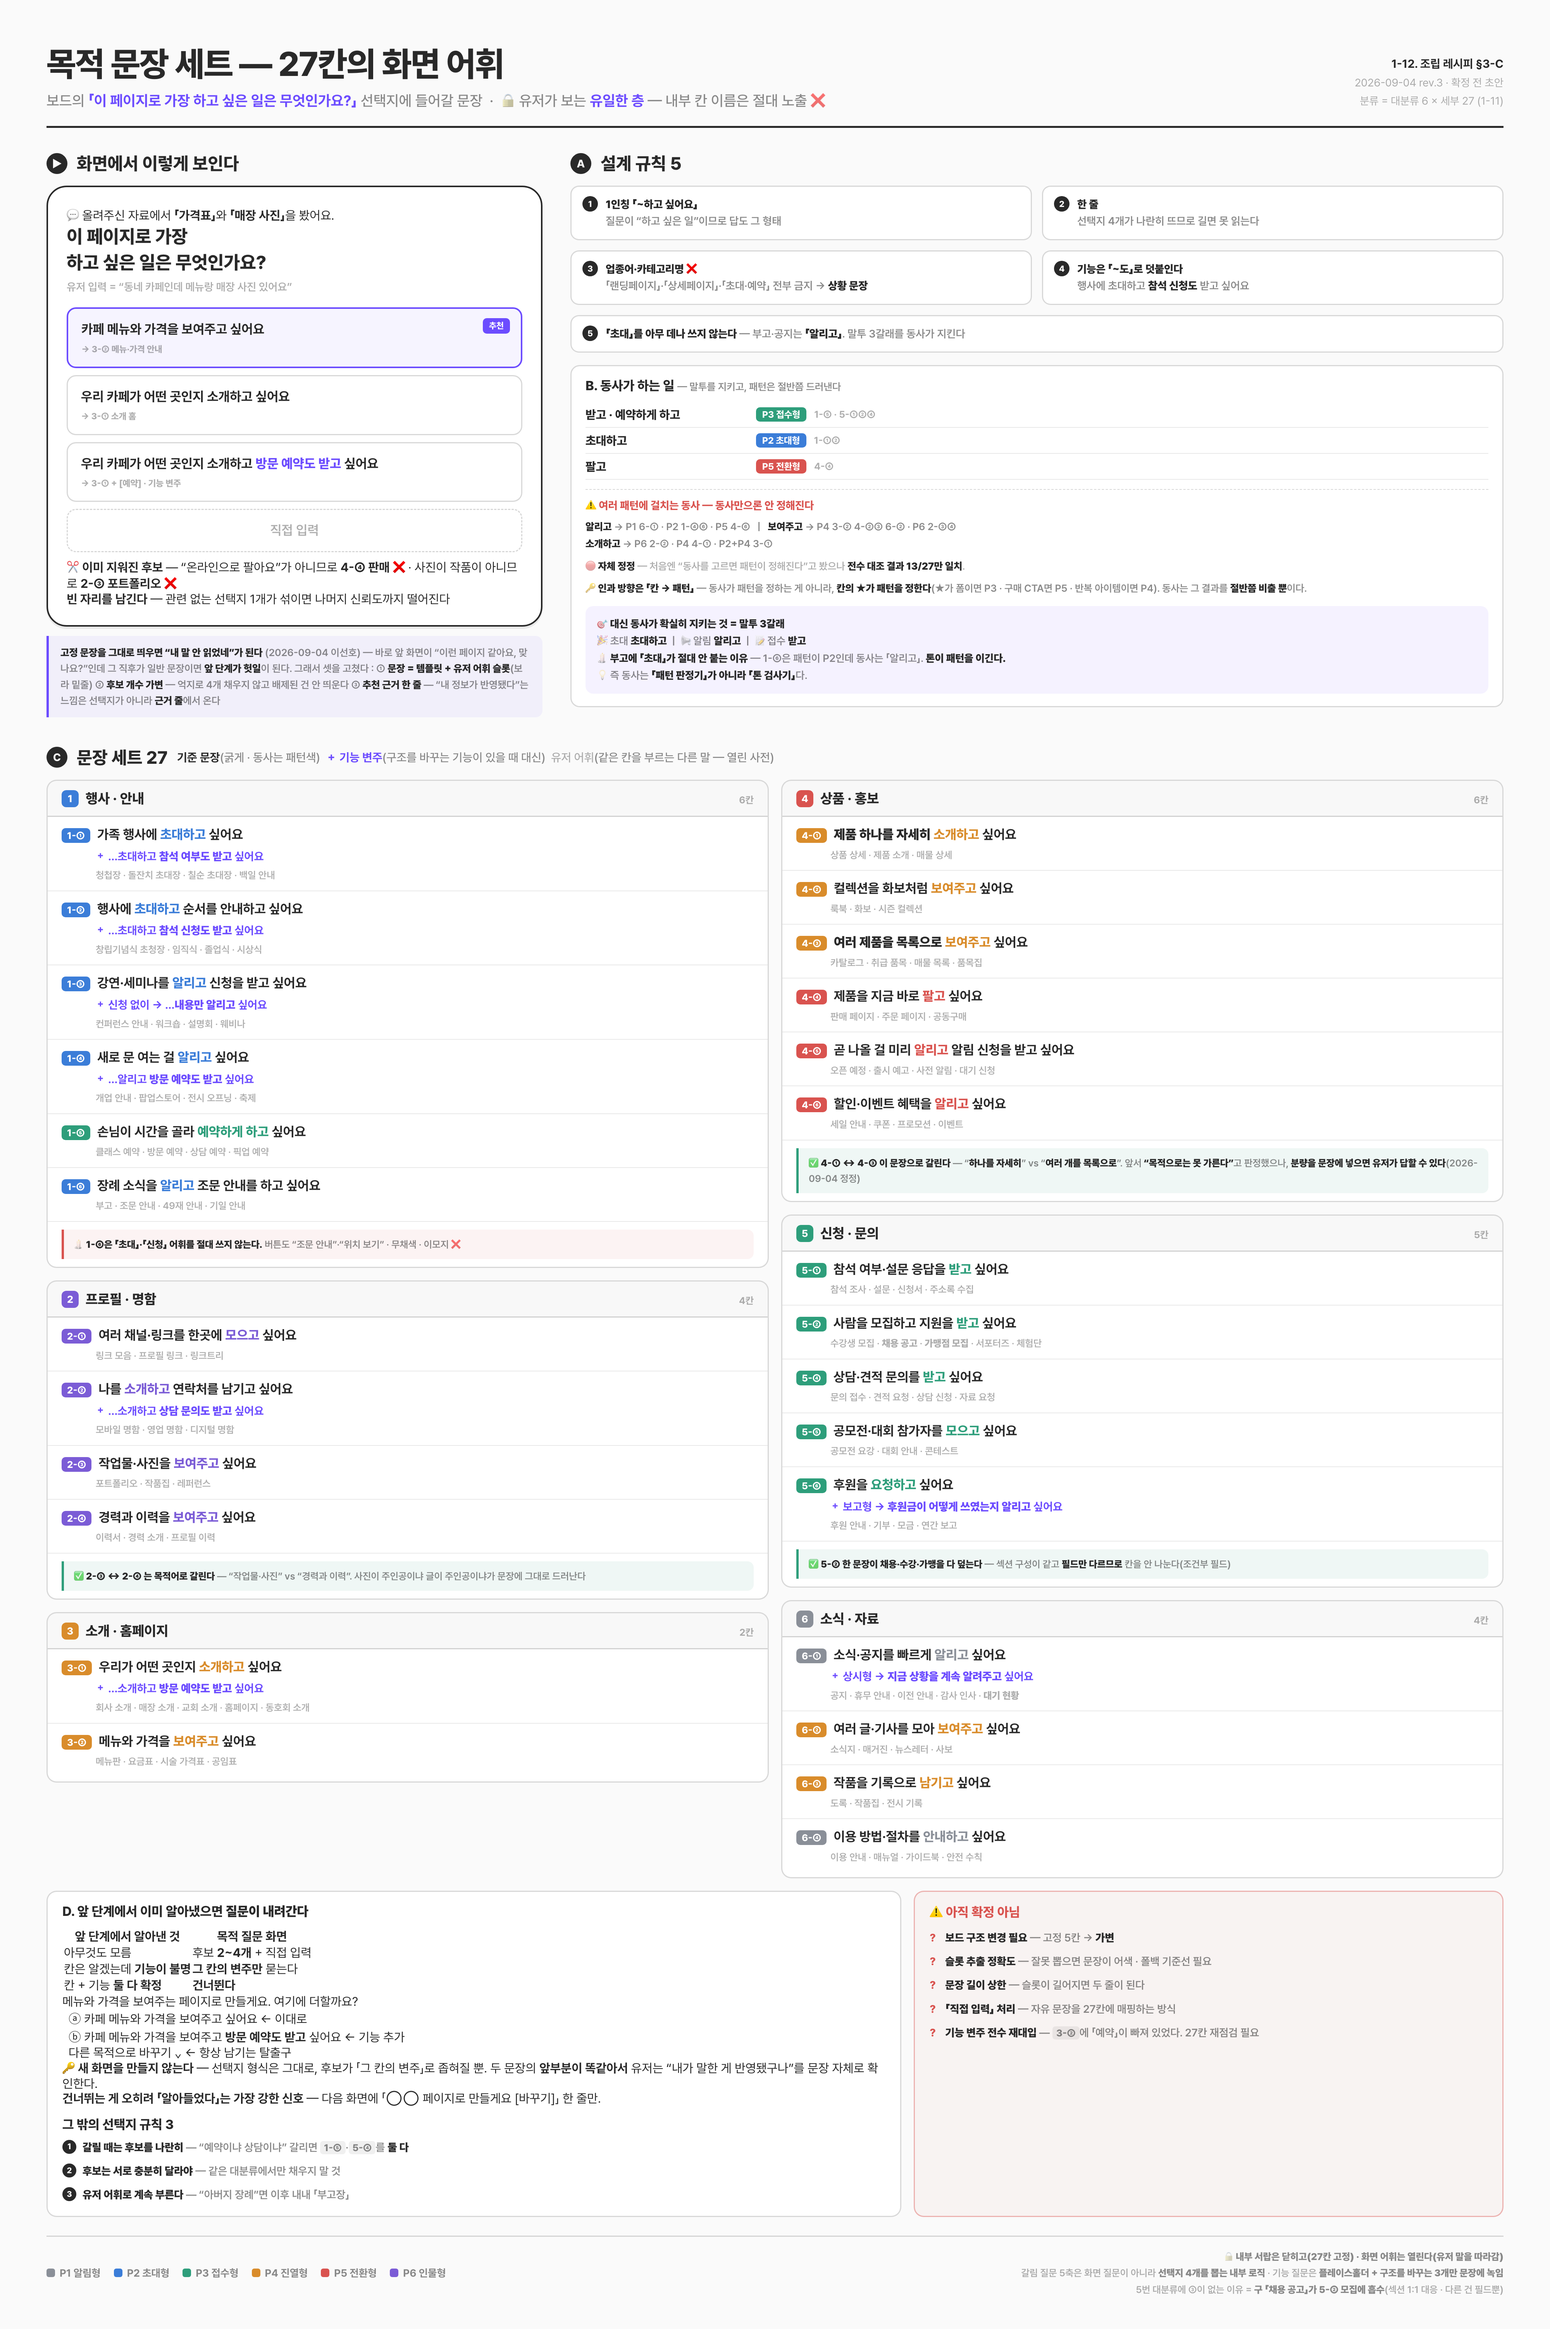
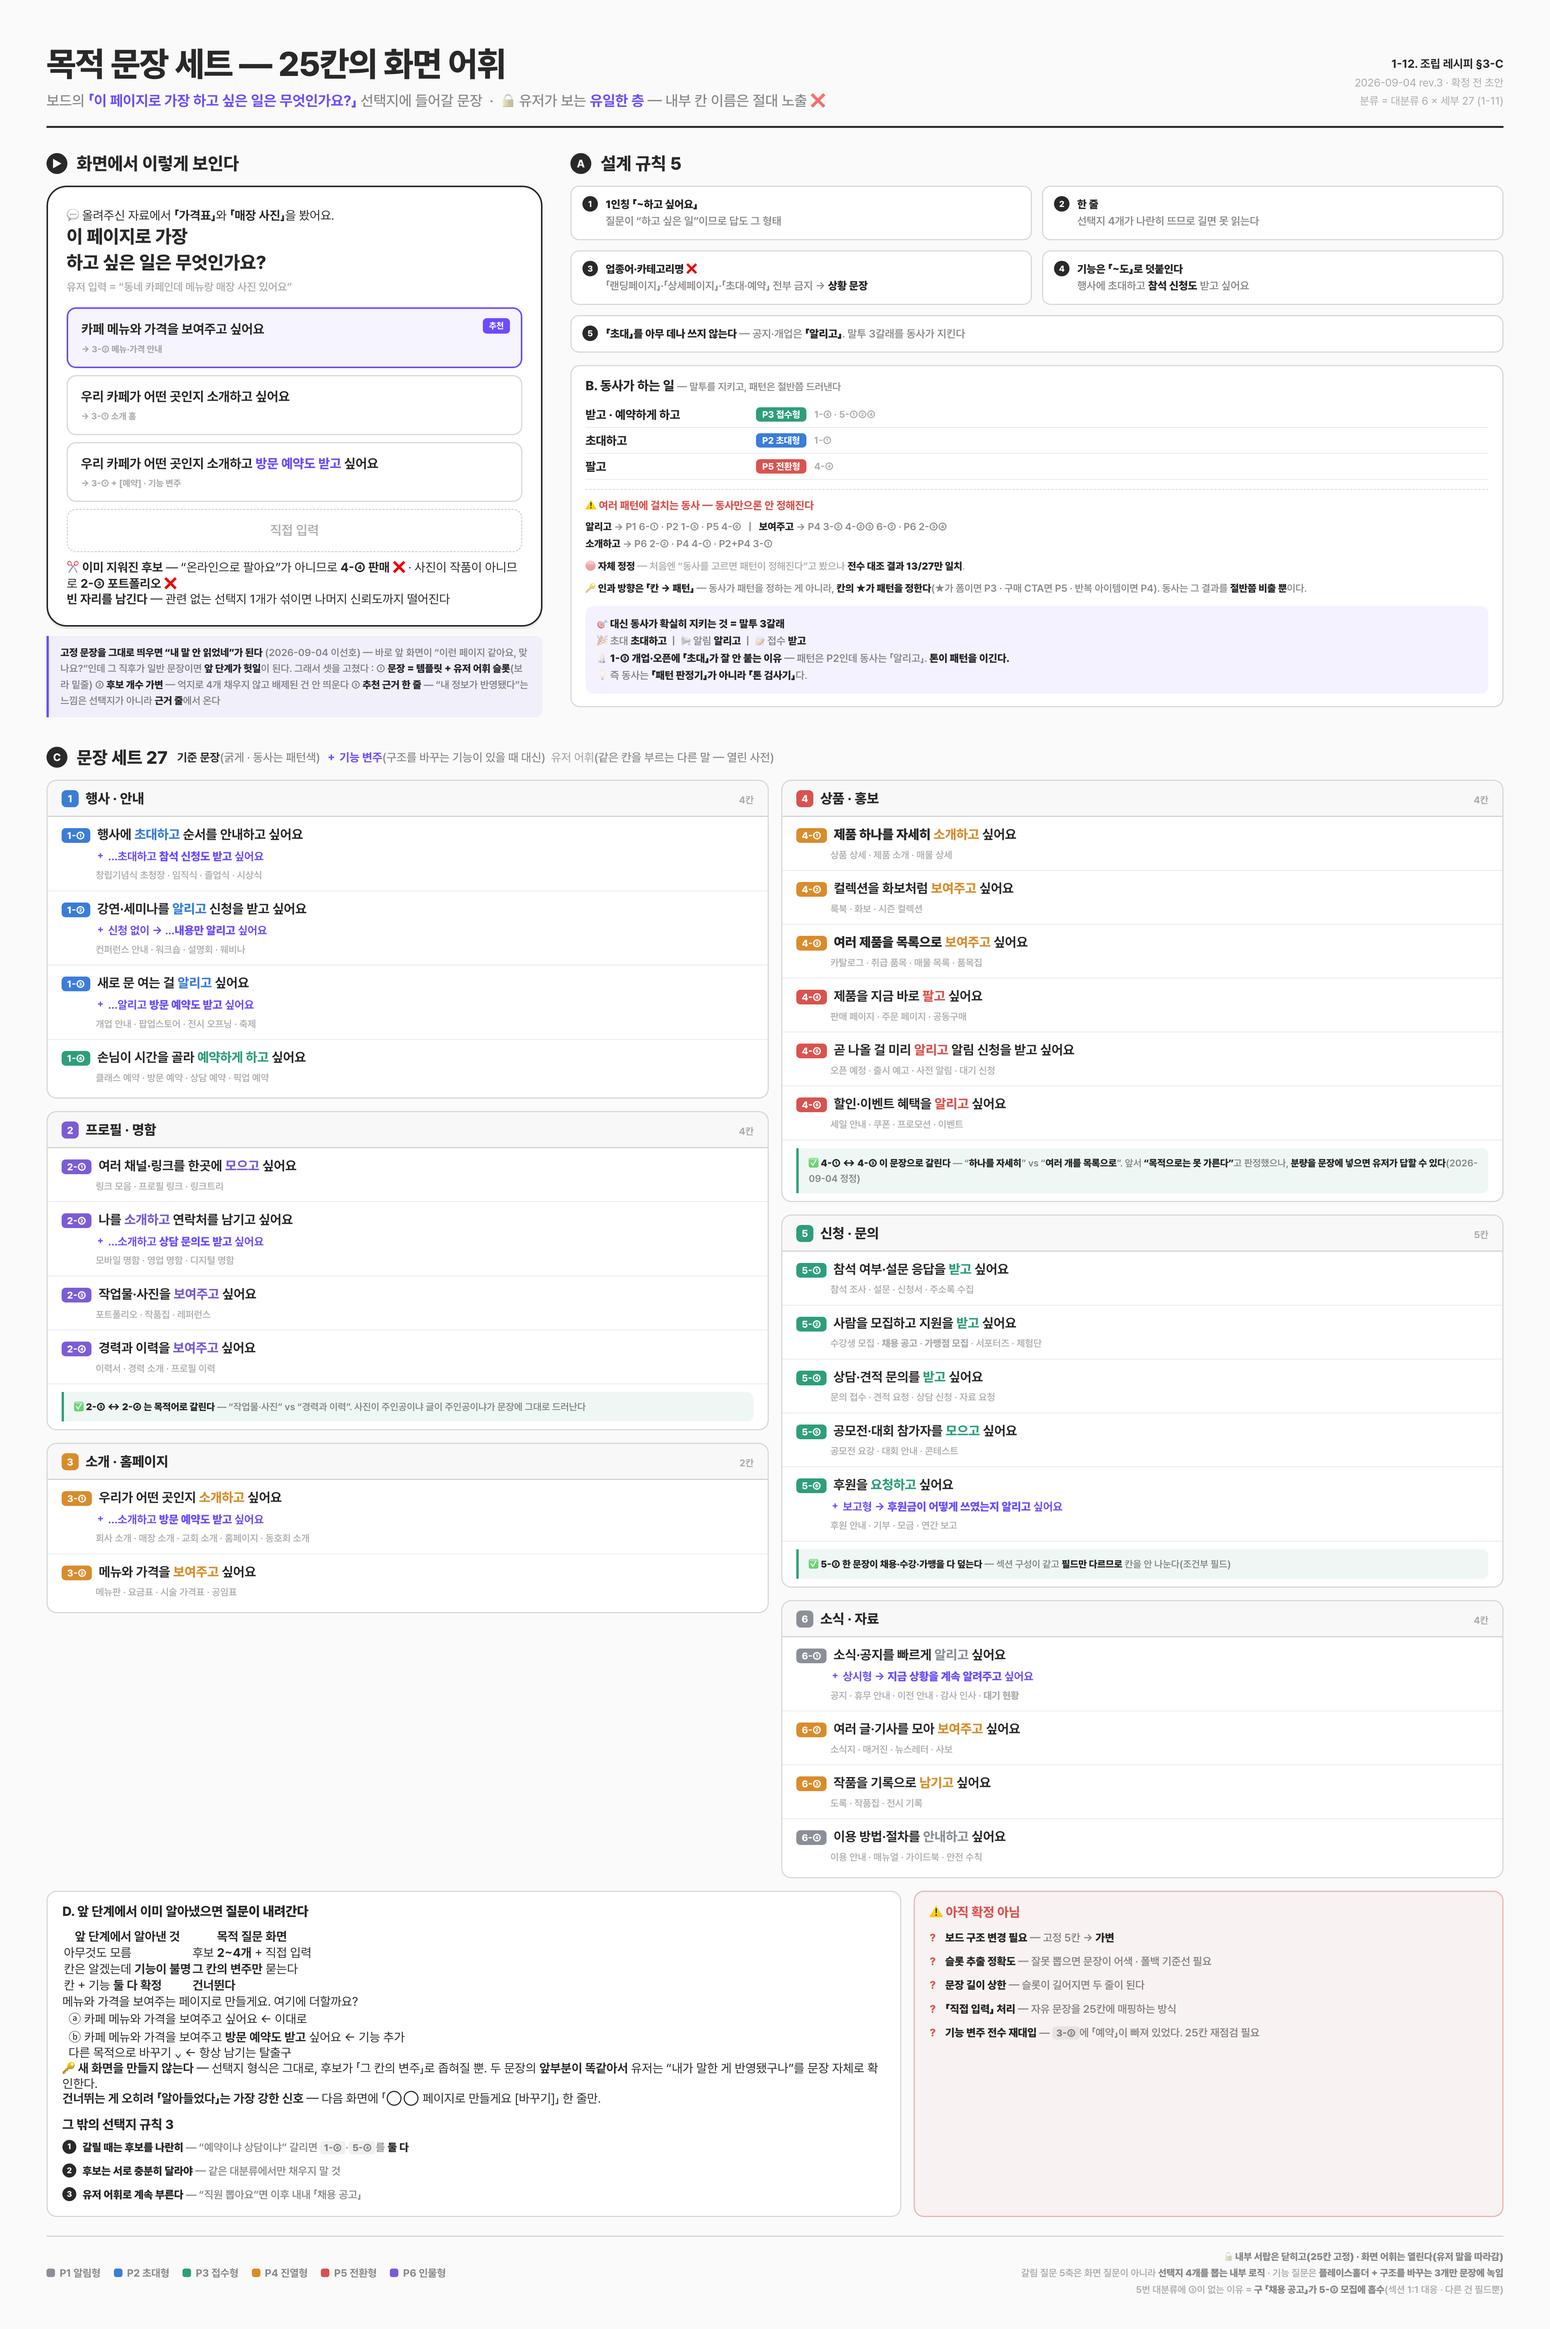
vault backup: 2026-09-04 15:42:00

Changed region(s): [[0.0312, 0.3423, 0.1875, 0.7779], [0.2812, 0.0, 0.3125, 0.0311]]

diff --git a/1. 작업 가이드/.data/1-12-sentences-diagram.html b/1. 작업 가이드/.data/1-12-sentences-diagram.html
@@ -98,7 +98,7 @@ code{background:rgba(41,41,41,.07);padding:1px 5px;border-radius:4px;font-family
 </style></head><body>
 
 <div class="top">
-  <div><div class="t1">목적 문장 세트 — 27칸의 화면 어휘</div>
+  <div><div class="t1">목적 문장 세트 — 25칸의 화면 어휘</div>
     <div class="t2">보드의 <b>「이 페이지로 가장 하고 싶은 일은 무엇인가요?」</b> 선택지에 들어갈 문장 &nbsp;·&nbsp; 🔒 유저가 보는 <b>유일한 층</b> — 내부 칸 이름은 절대 노출 ❌</div></div>
   <div class="meta"><b>1-12. 조립 레시피 §3-C</b><br>2026-09-04 rev.3 · 확정 전 초안<br>분류 = 대분류 6 × 세부 27 (1-11)</div>
 </div>
@@ -130,24 +130,24 @@ code{background:rgba(41,41,41,.07);padding:1px 5px;border-radius:4px;font-family
       <div class="rl"><span class="n">2</span><b>한 줄</b><br>선택지 4개가 나란히 뜨므로 길면 못 읽는다</div>
       <div class="rl"><span class="n">3</span><b>업종어·카테고리명 ❌</b><br>「랜딩페이지」·「상세페이지」·「초대·예약」 전부 금지 → <b>상황 문장</b></div>
       <div class="rl"><span class="n">4</span><b>기능은 「~도」로 덧붙인다</b><br>행사에 초대하고 <b>참석 신청도</b> 받고 싶어요</div>
-      <div class="rl" style="grid-column:span 2"><span class="n">5</span><b>「초대」를 아무 데나 쓰지 않는다</b> — 부고·공지는 <b>「알리고」</b>. 말투 3갈래를 동사가 지킨다</div>
+      <div class="rl" style="grid-column:span 2"><span class="n">5</span><b>「초대」를 아무 데나 쓰지 않는다</b> — 공지·개업은 <b>「알리고」</b>. 말투 3갈래를 동사가 지킨다</div>
     </div>
 
     <div class="vb">
       <div class="vb-h">B. 동사가 하는 일 <span>— 말투를 지키고, 패턴은 절반쯤 드러낸다</span></div>
-      <div class="vrow"><span class="vv">받고 · 예약하게 하고</span><span class="vp" style="background:var(--p3)">P3 접수형</span><span class="vc">1-⑤ · 5-①②④</span></div>
-      <div class="vrow"><span class="vv">초대하고</span><span class="vp" style="background:var(--p2)">P2 초대형</span><span class="vc">1-①②</span></div>
+      <div class="vrow"><span class="vv">받고 · 예약하게 하고</span><span class="vp" style="background:var(--p3)">P3 접수형</span><span class="vc">1-④ · 5-①②④</span></div>
+      <div class="vrow"><span class="vv">초대하고</span><span class="vp" style="background:var(--p2)">P2 초대형</span><span class="vc">1-①</span></div>
       <div class="vrow"><span class="vv">팔고</span><span class="vp" style="background:var(--p5)">P5 전환형</span><span class="vc">4-④</span></div>
       <div class="vsplit">
         <div class="vs-h">⚠ 여러 패턴에 걸치는 동사 — 동사만으론 안 정해진다</div>
-        <div class="vs"><b>알리고</b> → P1 6-① · P2 1-④⑥ · P5 4-⑥ &nbsp;&nbsp;|&nbsp;&nbsp; <b>보여주고</b> → P4 3-② 4-②③ 6-② · P6 2-③④<br>
+        <div class="vs"><b>알리고</b> → P1 6-① · P2 1-③ · P5 4-⑥ &nbsp;&nbsp;|&nbsp;&nbsp; <b>보여주고</b> → P4 3-② 4-②③ 6-② · P6 2-③④<br>
           <b>소개하고</b> → P6 2-② · P4 4-① · P2+P4 3-①</div>
         <div class="vs" style="margin-top:7px;color:var(--mut2)">🔴 <b>자체 정정</b> — 처음엔 “동사를 고르면 패턴이 정해진다”고 봤으나 <b>전수 대조 결과 13/27만 일치</b>.</div>
       <div class="vs" style="margin-top:6px">🔑 <b>인과 방향은 「칸 → 패턴」</b> — 동사가 패턴을 정하는 게 아니라, <b>칸의 ★가 패턴을 정한다</b>(★가 폼이면 P3 · 구매 CTA면 P5 · 반복 아이템이면 P4). 동사는 그 결과를 <b>절반쯤 비출 뿐</b>이다.</div>
       </div>
       <div class="tone">🎯 <b>대신 동사가 확실히 지키는 것 = 말투 3갈래</b><br>
         🎉 초대 <b>초대하고</b> &nbsp;|&nbsp; 📢 알림 <b>알리고</b> &nbsp;|&nbsp; 📝 접수 <b>받고</b><br>
-        🕯 <b>부고에 「초대」가 절대 안 붙는 이유</b> — 1-⑥은 패턴이 P2인데 동사는 「알리고」. <b>톤이 패턴을 이긴다.</b><br>
+        🕯 <b>1-③ 개업·오픈에 「초대」가 잘 안 붙는 이유</b> — 패턴은 P2인데 동사는 「알리고」. <b>톤이 패턴을 이긴다.</b><br>
         💡 즉 동사는 <b>「패턴 판정기」가 아니라 「톤 검사기」</b>다.</div>
     </div>
   </div>
@@ -159,24 +159,18 @@ code{background:rgba(41,41,41,.07);padding:1px 5px;border-radius:4px;font-family
 <div class="grp2">
  <div>
   <div class="grp" style="--c:var(--p2)">
-   <div class="grp-h"><span class="grp-n">1</span><span class="grp-t">행사 · 안내</span><span class="grp-c">6칸</span></div>
-   <div class="sr" style="--pc:var(--p2)"><div class="sr-h"><span class="sr-i">1-①</span><span class="sr-t">가족 행사에 <em>초대하고</em> 싶어요</span></div>
-     <div class="sr-v">…초대하고 <b>참석 여부도 받고</b> 싶어요</div>
-     <div class="sr-w">청첩장 · 돌잔치 초대장 · 칠순 초대장 · 백일 안내</div></div>
-   <div class="sr" style="--pc:var(--p2)"><div class="sr-h"><span class="sr-i">1-②</span><span class="sr-t">행사에 <em>초대하고</em> 순서를 안내하고 싶어요</span></div>
+   <div class="grp-h"><span class="grp-n">1</span><span class="grp-t">행사 · 안내</span><span class="grp-c">4칸</span></div>
+   <div class="sr" style="--pc:var(--p2)"><div class="sr-h"><span class="sr-i">1-①</span><span class="sr-t">행사에 <em>초대하고</em> 순서를 안내하고 싶어요</span></div>
      <div class="sr-v">…초대하고 <b>참석 신청도 받고</b> 싶어요</div>
      <div class="sr-w">창립기념식 초청장 · 임직식 · 졸업식 · 시상식</div></div>
-   <div class="sr" style="--pc:var(--p2)"><div class="sr-h"><span class="sr-i">1-③</span><span class="sr-t">강연·세미나를 <em>알리고</em> 신청을 받고 싶어요</span></div>
+   <div class="sr" style="--pc:var(--p2)"><div class="sr-h"><span class="sr-i">1-②</span><span class="sr-t">강연·세미나를 <em>알리고</em> 신청을 받고 싶어요</span></div>
      <div class="sr-v">신청 없이 → …<b>내용만 알리고</b> 싶어요</div>
      <div class="sr-w">컨퍼런스 안내 · 워크숍 · 설명회 · 웨비나</div></div>
-   <div class="sr" style="--pc:var(--p2)"><div class="sr-h"><span class="sr-i">1-④</span><span class="sr-t">새로 문 여는 걸 <em>알리고</em> 싶어요</span></div>
+   <div class="sr" style="--pc:var(--p2)"><div class="sr-h"><span class="sr-i">1-③</span><span class="sr-t">새로 문 여는 걸 <em>알리고</em> 싶어요</span></div>
      <div class="sr-v">…알리고 <b>방문 예약도 받고</b> 싶어요</div>
      <div class="sr-w">개업 안내 · 팝업스토어 · 전시 오프닝 · 축제</div></div>
-   <div class="sr" style="--pc:var(--p3)"><div class="sr-h"><span class="sr-i">1-⑤</span><span class="sr-t">손님이 시간을 골라 <em>예약하게 하고</em> 싶어요</span></div>
+   <div class="sr" style="--pc:var(--p3)"><div class="sr-h"><span class="sr-i">1-④</span><span class="sr-t">손님이 시간을 골라 <em>예약하게 하고</em> 싶어요</span></div>
      <div class="sr-w">클래스 예약 · 방문 예약 · 상담 예약 · 픽업 예약</div></div>
-   <div class="sr" style="--pc:var(--p2)"><div class="sr-h"><span class="sr-i">1-⑥</span><span class="sr-t">장례 소식을 <em>알리고</em> 조문 안내를 하고 싶어요</span></div>
-     <div class="sr-w">부고 · 조문 안내 · 49재 안내 · 기일 안내</div></div>
-   <div class="warn">🕯 <b>1-⑥은 「초대」·「신청」 어휘를 절대 쓰지 않는다.</b> 버튼도 “조문 안내”·“위치 보기” · 무채색 · 이모지 ❌</div>
   </div>
 
   <div class="grp" style="--c:var(--p6)">
@@ -205,7 +199,7 @@ code{background:rgba(41,41,41,.07);padding:1px 5px;border-radius:4px;font-family
 
  <div>
   <div class="grp" style="--c:var(--p5)">
-   <div class="grp-h"><span class="grp-n">4</span><span class="grp-t">상품 · 홍보</span><span class="grp-c">6칸</span></div>
+   <div class="grp-h"><span class="grp-n">4</span><span class="grp-t">상품 · 홍보</span><span class="grp-c">4칸</span></div>
    <div class="sr" style="--pc:var(--p4)"><div class="sr-h"><span class="sr-i">4-①</span><span class="sr-t"><b>제품 하나를 자세히</b> <em>소개하고</em> 싶어요</span></div>
      <div class="sr-w">상품 상세 · 제품 소개 · 매물 상세</div></div>
    <div class="sr" style="--pc:var(--p4)"><div class="sr-h"><span class="sr-i">4-②</span><span class="sr-t">컬렉션을 화보처럼 <em>보여주고</em> 싶어요</span></div>
@@ -267,16 +261,16 @@ code{background:rgba(41,41,41,.07);padding:1px 5px;border-radius:4px;font-family
       두 문장의 <b>앞부분이 똑같아서</b> 유저는 “내가 말한 게 반영됐구나”를 문장 자체로 확인한다.<br>
       <b>건너뛰는 게 오히려 「알아들었다」는 가장 강한 신호</b> — 다음 화면에 「◯◯ 페이지로 만들게요 [바꾸기]」 한 줄만.</div>
     <div class="bx-h" style="margin:14px 0 9px">그 밖의 선택지 규칙 3</div>
-    <div class="bl"><span class="n">1</span><b>갈릴 때는 후보를 나란히</b> — “예약이냐 상담이냐” 갈리면 <code>1-⑤</code>·<code>5-④</code>를 <b>둘 다</b></div>
+    <div class="bl"><span class="n">1</span><b>갈릴 때는 후보를 나란히</b> — “예약이냐 상담이냐” 갈리면 <code>1-④</code>·<code>5-④</code>를 <b>둘 다</b></div>
     <div class="bl"><span class="n">2</span><b>후보는 서로 충분히 달라야</b> — 같은 대분류에서만 채우지 말 것</div>
-    <div class="bl"><span class="n">3</span><b>유저 어휘로 계속 부른다</b> — “아버지 장례”면 이후 내내 「부고장」</div>
+    <div class="bl"><span class="n">3</span><b>유저 어휘로 계속 부른다</b> — “직원 뽑아요”면 이후 내내 「채용 공고」</div>
   </div>
   <div class="bx und"><div class="bx-h">⚠ 아직 확정 아님</div>
     <div class="bl q"><b>보드 구조 변경 필요</b> — 고정 5칸 → <b>가변</b></div>
     <div class="bl q"><b>슬롯 추출 정확도</b> — 잘못 뽑으면 문장이 어색 · 폴백 기준선 필요</div>
     <div class="bl q"><b>문장 길이 상한</b> — 슬롯이 길어지면 두 줄이 된다</div>
-    <div class="bl q"><b>「직접 입력」 처리</b> — 자유 문장을 27칸에 매핑하는 방식</div>
-    <div class="bl q"><b>기능 변주 전수 재대입</b> — <code>3-②</code>에 「예약」이 빠져 있었다. 27칸 재점검 필요</div>
+    <div class="bl q"><b>「직접 입력」 처리</b> — 자유 문장을 25칸에 매핑하는 방식</div>
+    <div class="bl q"><b>기능 변주 전수 재대입</b> — <code>3-②</code>에 「예약」이 빠져 있었다. 25칸 재점검 필요</div>
   </div>
 </div>
 
@@ -290,7 +284,7 @@ code{background:rgba(41,41,41,.07);padding:1px 5px;border-radius:4px;font-family
     <div class="lg-i"><span class="dot" style="background:var(--p6)"></span>P6 인물형</div>
   </div>
   <div class="fnote">
-    🔒 <b>내부 서랍은 닫히고(27칸 고정) · 화면 어휘는 열린다(유저 말을 따라감)</b><br>
+    🔒 <b>내부 서랍은 닫히고(25칸 고정) · 화면 어휘는 열린다(유저 말을 따라감)</b><br>
     갈림 질문 5축은 화면 질문이 아니라 <b>선택지 4개를 뽑는 내부 로직</b> · 기능 질문은 <b>플레이스홀더 + 구조를 바꾸는 3개만 문장에 녹임</b><br>
     5번 대분류에 ③이 없는 이유 = <b>구 「채용 공고」가 5-② 모집에 흡수</b>(섹션 1:1 대응 · 다른 건 필드뿐)
   </div>
